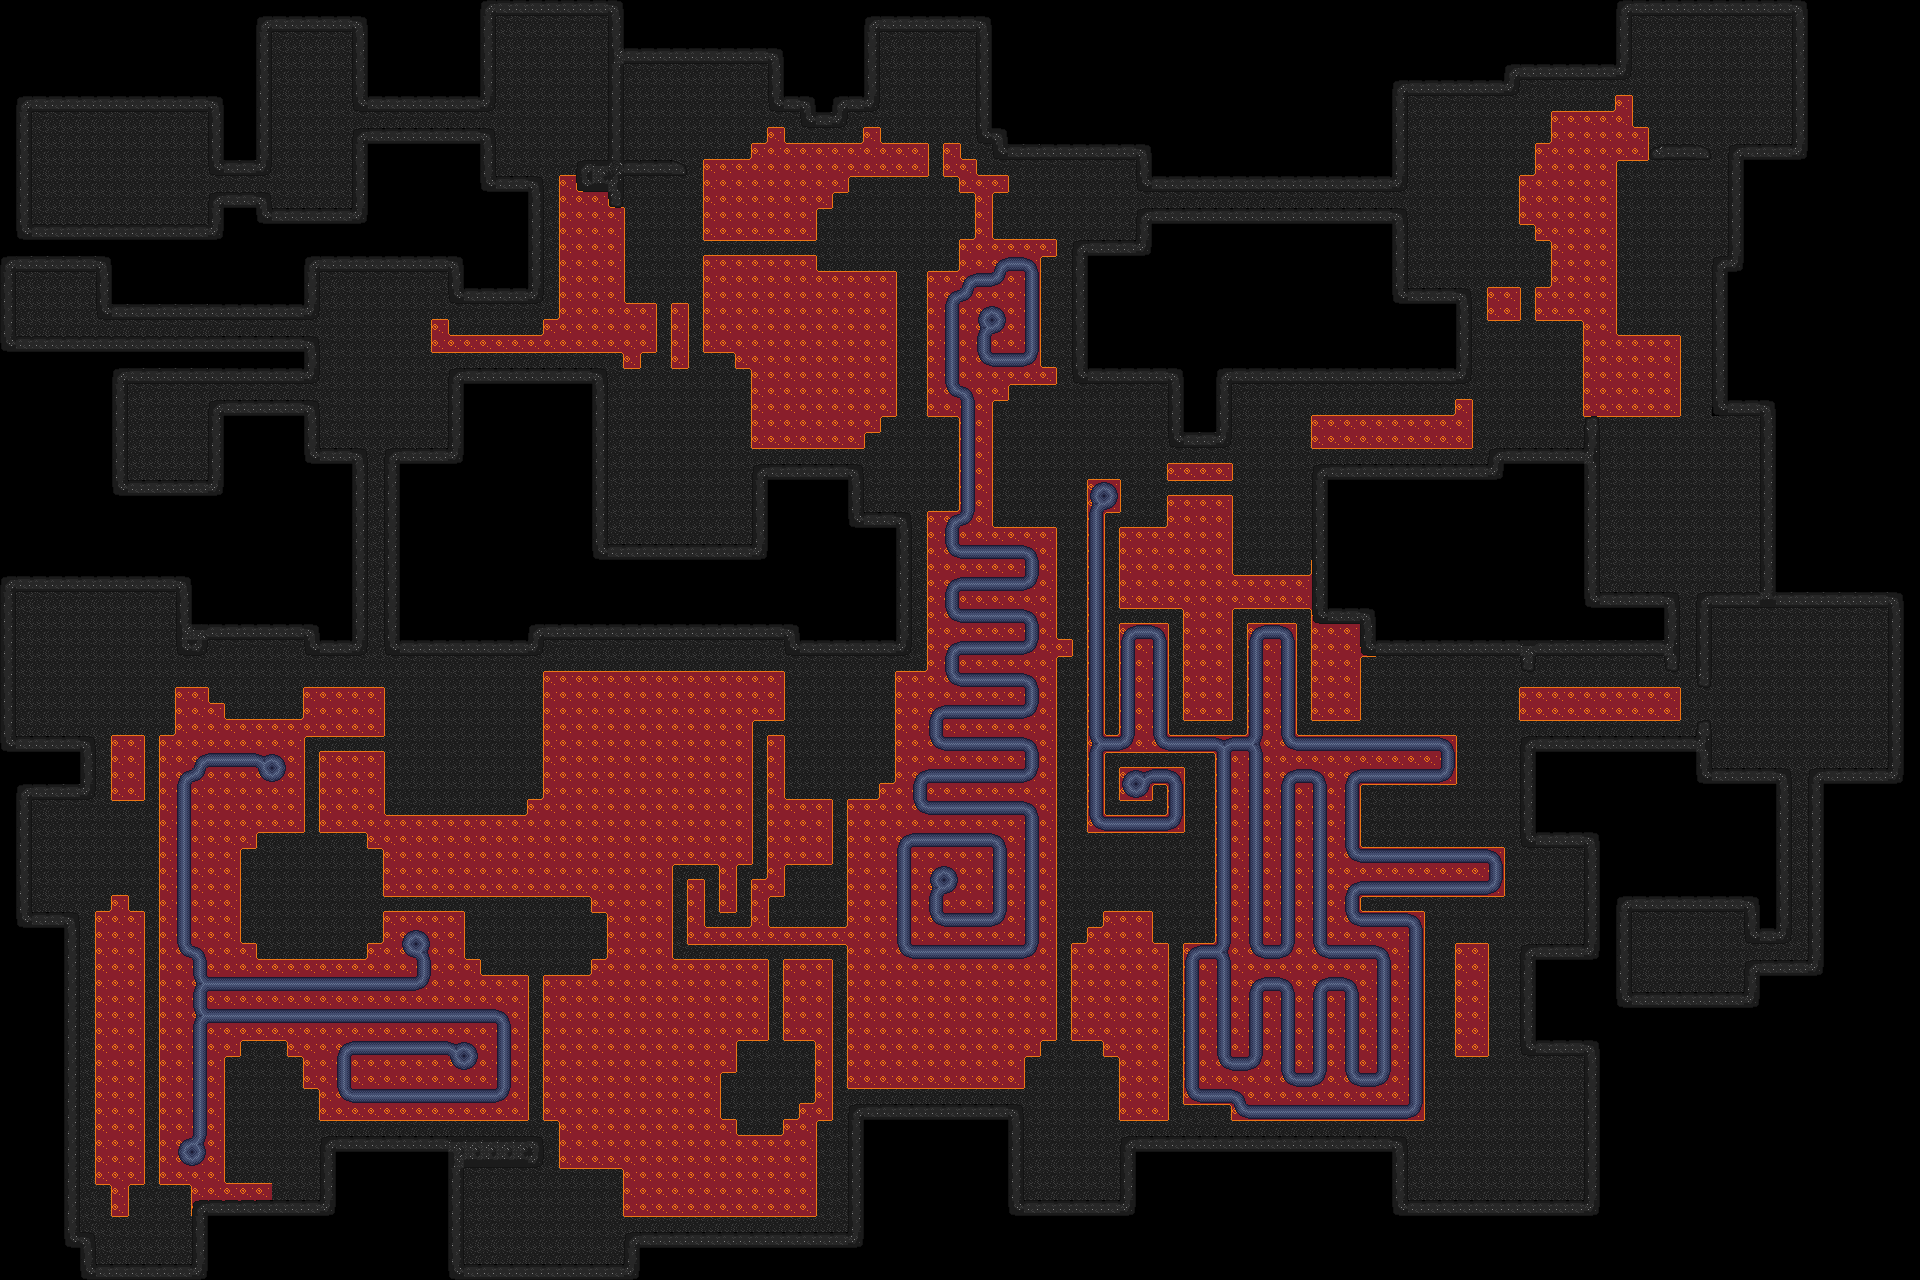
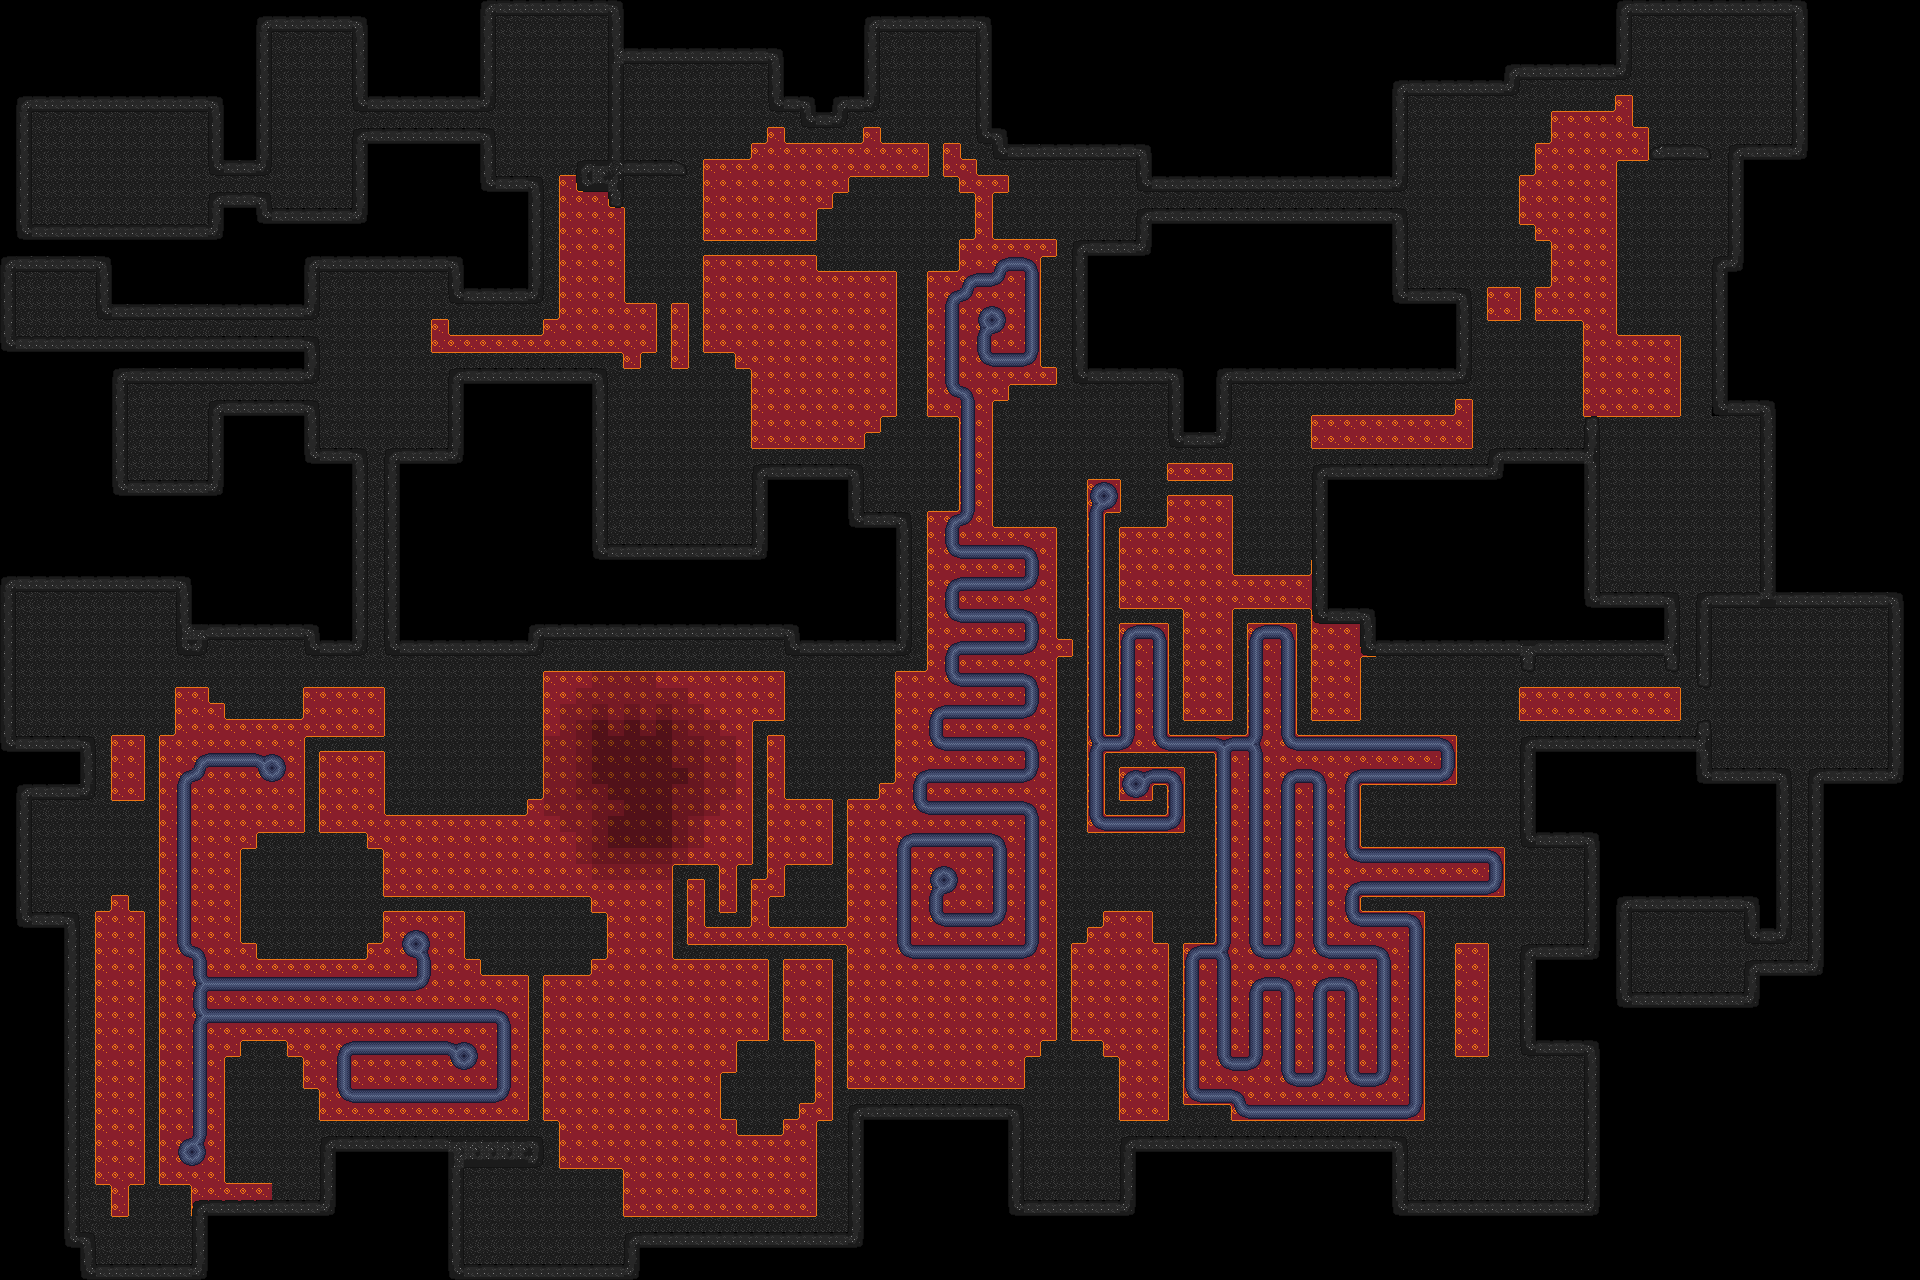
Rebuild assets for lava splashes;lversion bump

Changed region(s): [[0.2812, 0.5312, 0.375, 0.6875]]

diff --git a/game_core/src/game_engine/entity.rs b/game_core/src/game_engine/entity.rs
@@ -165,6 +165,9 @@ impl Entity {
     }
 
     pub fn should_be_visible(&self, world: &World) -> bool {
+        if world.creative_mode {
+            return true
+        }
         if bool_for_global_key(&StorageKey::item_collected(self.id)) {
             return false
         }

diff --git a/game_core.h b/game_core.h
@@ -78,6 +78,8 @@
 
 #define SPRITE_SHEET_DEMON_LORD_DEFEAT 1020
 
+#define SPRITE_SHEET_TENTACLES 1021
+
 #define SPECIES_HERO 1001
 
 #define SPECIES_NPC_SHOP_CLERK 3008
